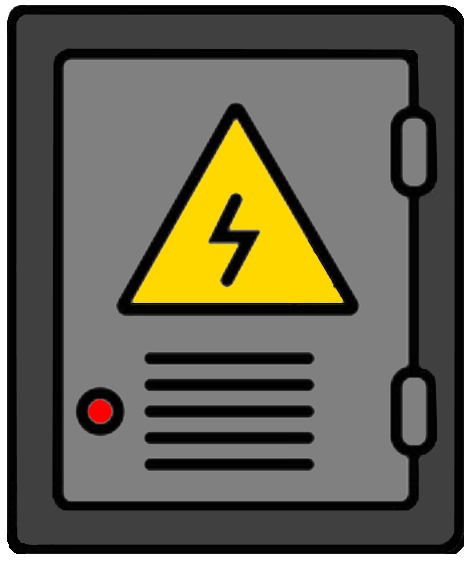
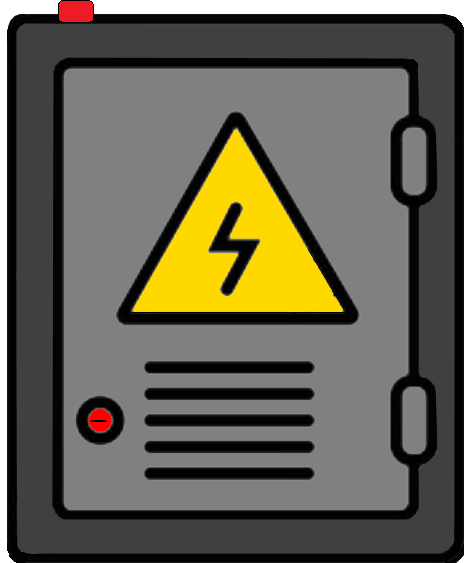
all Textures added boss1

diff --git a/Somber/boss1.cpp b/Somber/boss1.cpp
@@ -22,10 +22,6 @@ void Boss1::LoadRes()
 	{
 		cout << "can't load Sprite" << endl;
 	}
-	if (!fuseClosed.loadFromFile("res/fuseClosed.png"))
-	{
-		cout << "can't load texture fuseClosed" << endl;
-	}
 	if (!fuseOpened.loadFromFile("res/fuseOpened.png"))
 	{
 		cout << "can't load texture fuseOpened" << endl;
@@ -53,6 +49,13 @@ void Boss1::LoadRes()
 	tableBotTex.loadFromFile("res/tableBottom.png");
 	doorCloseTex.loadFromFile("res/doubleDoorClose.png");
 	doorOpenTex.loadFromFile("res/doubleDoorOpen.png");
+	//fuseBotCloseTex.loadFromFile("res/fuseBottomClose.png");
+	fuseBotSideOpenTex.loadFromFile("res/fuseBottomSideOpen.png");
+	fuse[3].fuseOpenTex.loadFromFile("res/fuseBottomOpen.png");
+	fuse[4].fuseOpenTex.loadFromFile("res/fuseBottomOpen.png");
+	fuse[3].fuseCloseTex.loadFromFile("res/fuseBottomClose.png");
+	fuse[4].fuseCloseTex.loadFromFile("res/fuseBottomClose.png");
+
 }
 
 void Boss1::Init(Engine* game)
@@ -85,17 +88,17 @@ void Boss1::Init(Engine* game)
 	fuse[0].X = 90;
 	fuse[0].Y = 18;
 	fuse[1].X = 2;
-	fuse[1].Y = windowHeight/2-20;
+	fuse[1].Y = windowHeight/2+30;
 	fuse[2].X = 2;
-	fuse[2].Y = windowHeight - 75;
-	fuse[3].X = 425;
-	fuse[3].Y = windowHeight-15;
-	fuse[4].X = 750;
-	fuse[4].Y = windowHeight-15;
-	fuse[5].X = windowWidth - 50;
-	fuse[5].Y = windowHeight - 20;
-	fuse[6].X = windowWidth - 20;
-	fuse[6].Y = windowHeight/2-20;
+	fuse[2].Y = windowHeight - 20;
+	fuse[3].X = 410;
+	fuse[3].Y = windowHeight-21;
+	fuse[4].X = 740;
+	fuse[4].Y = windowHeight-21;
+	fuse[5].X = windowWidth - 3;
+	fuse[5].Y = windowHeight - 70;
+	fuse[6].X = windowWidth -3;
+	fuse[6].Y = windowHeight/2-15;
 
 	exitFlag = 0;
 	gameOverFlag = 0;
@@ -112,6 +115,7 @@ void Boss1::Init(Engine* game)
 	topScoreText.setPosition(3000, 3000);
 	fuseNumber.setPosition(0, 20);
 
+	
 	highestScoreTag.setTexture(highestScoreTex);
 	scoreCard.setTexture(scoreCardTex);
 	floor.setTexture(floorTexture);
@@ -129,7 +133,7 @@ void Boss1::Init(Engine* game)
 	tableDLD[0].object.setPosition(5, 410);
 	tableDLD[1].object.setPosition(5, 110);
 	tableDLD[2].object.setPosition(190, windowHeight-105);
-	tableDLD[3].object.setPosition(500, windowHeight - 105);
+	tableDLD[3].object.setPosition(510, windowHeight - 105);
 	tableDLD[4].object.setPosition(850, windowHeight - 105);
 	tableDLD[5].object.setPosition(1165, 110);
 	tableDLD[6].object.setPosition(1165, 410);
@@ -153,8 +157,17 @@ void Boss1::Init(Engine* game)
 	for (i = 0; i < 7; i++)
 	{
 		fuse[i].fuseBox.setPosition(fuse[i].X, fuse[i].Y);
-		fuse[i].fuseHealthBar.setPosition(fuse[i].X - barDis, fuse[i].Y + fuseHeight + 15);
+		fuse[i].fuseHealthBar.setPosition(3000,3000);
 	}
+	bot3Side.setTexture(fuseBotSideOpenTex);
+	bot4Side.setTexture(fuseBotSideOpenTex);
+	bot3Side.setScale(.15, .2);
+	bot4Side.setScale(.15, .2);
+	bot4Side.setPosition(3000, 3000);
+	bot3Side.setPosition(3000, 3000);
+
+
+
 	heart1.setSize(Vector2f(heartDim, heartDim));
 	heart2.setSize(Vector2f(heartDim, heartDim));
 	heart3.setSize(Vector2f(heartDim, heartDim));
@@ -177,9 +190,18 @@ void Boss1::Init(Engine* game)
 	heart5.setTexture(&heartFull);
 	for (i = 0; i < 7; i++)
 	{
-		fuse[i].fuseBox.setTexture(fuse[i].object);
+		fuse[i].fuseBox.setTexture(fuse[i].fuseCloseTex);
 		fuse[i].health = 100;
 	}
+	//fuse[3].fuseBox.setTexture(fuseBotCloseTex);
+	fuse[3].fuseBox.setScale(.15,.2);
+	//fuse[4].fuseBox.setTexture(fuseBotCloseTex);
+	fuse[4].fuseBox.setScale(.15, .2);
+
+	fuse[1].fuseBox.setRotation(-90);
+	fuse[2].fuseBox.setRotation(-90);
+	fuse[5].fuseBox.setRotation(90);
+	fuse[6].fuseBox.setRotation(90);
 
 	// for dark effect
 	light = 100;
@@ -306,7 +328,7 @@ void Boss1::Update(Engine * game, double dt)
 			spriteHealth = 150;
 			game->popScene();
 			game->pushScene(Boss1::getInstance());
-		}																		//GAME OVER FLAG
+		}																		
 
 		for (i = 0; i < 7; i++) fuse[i].fuseHealthBar.setSize(sf::Vector2f(fuse[i].health, healthBar));
 
@@ -366,7 +388,7 @@ void Boss1::Draw(RenderWindow * app)
 	for (i = 0; i < 7; i++)
 		if(player.intersects(fuse[i].fuseBox.getGlobalBounds())) 
 		{
-			app->draw(fuse[i].fuseHealthBar);
+			fuse[i].fuseHealthBar.setPosition(player.getPosition().x - 50, player.getPosition().y+11);
 			if (sf::Keyboard::isKeyPressed(sf::Keyboard::E))
 			{
 				if (fuse[i].health > 0)
@@ -375,16 +397,26 @@ void Boss1::Draw(RenderWindow * app)
 				}
 				if (fuse[i].health <= 0)
 				{
-					fuse[i].fuseBox.setTexture(fuseOpened);
+					fuse[i].fuseBox.setTexture(fuse[i].fuseOpenTex);
+					//fuse[4].fuseBox.setScale(1, 1);
 					fuse[i].fuseState = 0;
 				}
 			}
 		}
+		else fuse[i].fuseHealthBar.setPosition(3000, 3000);
+
+
+	if(fuse[3].health<=0) 	bot3Side.setPosition(fuse[3].X + 68, fuse[3].Y - 22);
+	if(fuse[4].health<=0) bot4Side.setPosition(fuse[4].X + 68, fuse[4].Y - 22);
+
 	
 	
 	app->draw(tableBottom.object);
 	for (i = 0; i < 7; i++) app->draw(fuse[i].fuseBox);
 	player.drawTo(app);
+	for (i = 0; i < 7; i++) app->draw(fuse[i].fuseHealthBar);
+	app->draw(bot3Side);
+	app->draw(bot4Side);
 	app->draw(heart1);
 	app->draw(heart2);
 	app->draw(heart3);

diff --git a/Somber/boss1.h b/Somber/boss1.h
@@ -82,13 +82,14 @@ private:
 	sf::Sprite  scoreCard;
 	sf::Sprite floor;
 	sf::Sprite door;
+	sf::Sprite bot3Side;
+	sf::Sprite bot4Side;
 	FuseInfo fuse[7];
 	TableEEE tableDLD[7],tableBottom;
 	sf::Texture highestScoreTex;
 	sf::Texture scoreCardTex;
 	sf::Texture floorTexture;
 	sf::Texture tex;
-	sf::Texture fuseClosed;
 	sf::Texture fuseOpened;
 	sf::Texture heartFull;
 	sf::Texture heartHalf;
@@ -99,6 +100,7 @@ private:
 	sf::Texture tableBotTex;
 	sf::Texture doorOpenTex;
 	sf::Texture doorCloseTex;
+	sf::Texture fuseBotSideOpenTex;
 	MainChar player;
 
 	

diff --git a/Somber/FuseInfo.h b/Somber/FuseInfo.h
@@ -10,14 +10,16 @@ public:
 	float X;
 	float Y;
 	bool fuseState;
-	sf::Texture object;
+	sf::Texture fuseOpenTex;
+	sf::Texture fuseCloseTex;
 	sf::Sprite fuseBox;
 	sf::RectangleShape fuseHealthBar;
 	FuseInfo()
 	{
 		health = 100;
-		object.loadFromFile("res/fuseClosed.png");
-		fuseBox.setTexture(object);
+		fuseCloseTex.loadFromFile("res/fuseClosed.png");
+		fuseOpenTex.loadFromFile("res/fuseOpened.png");
+		fuseBox.setTexture(fuseCloseTex);
 		fuseBox.setScale(.1, .1);
 		fuseState = 1;
 	}
